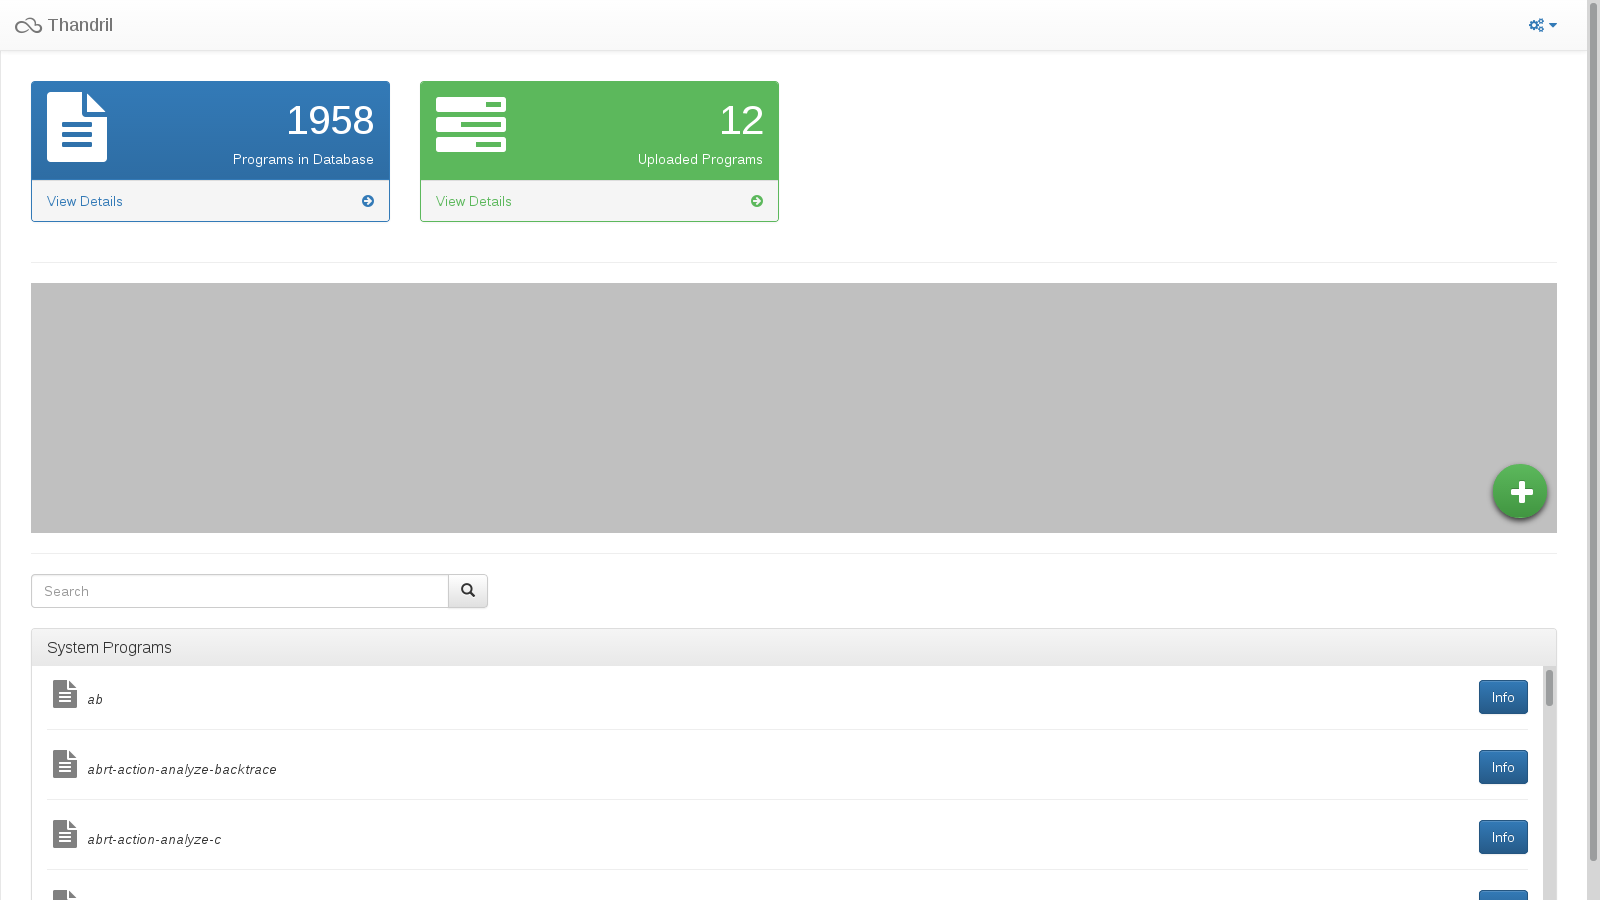
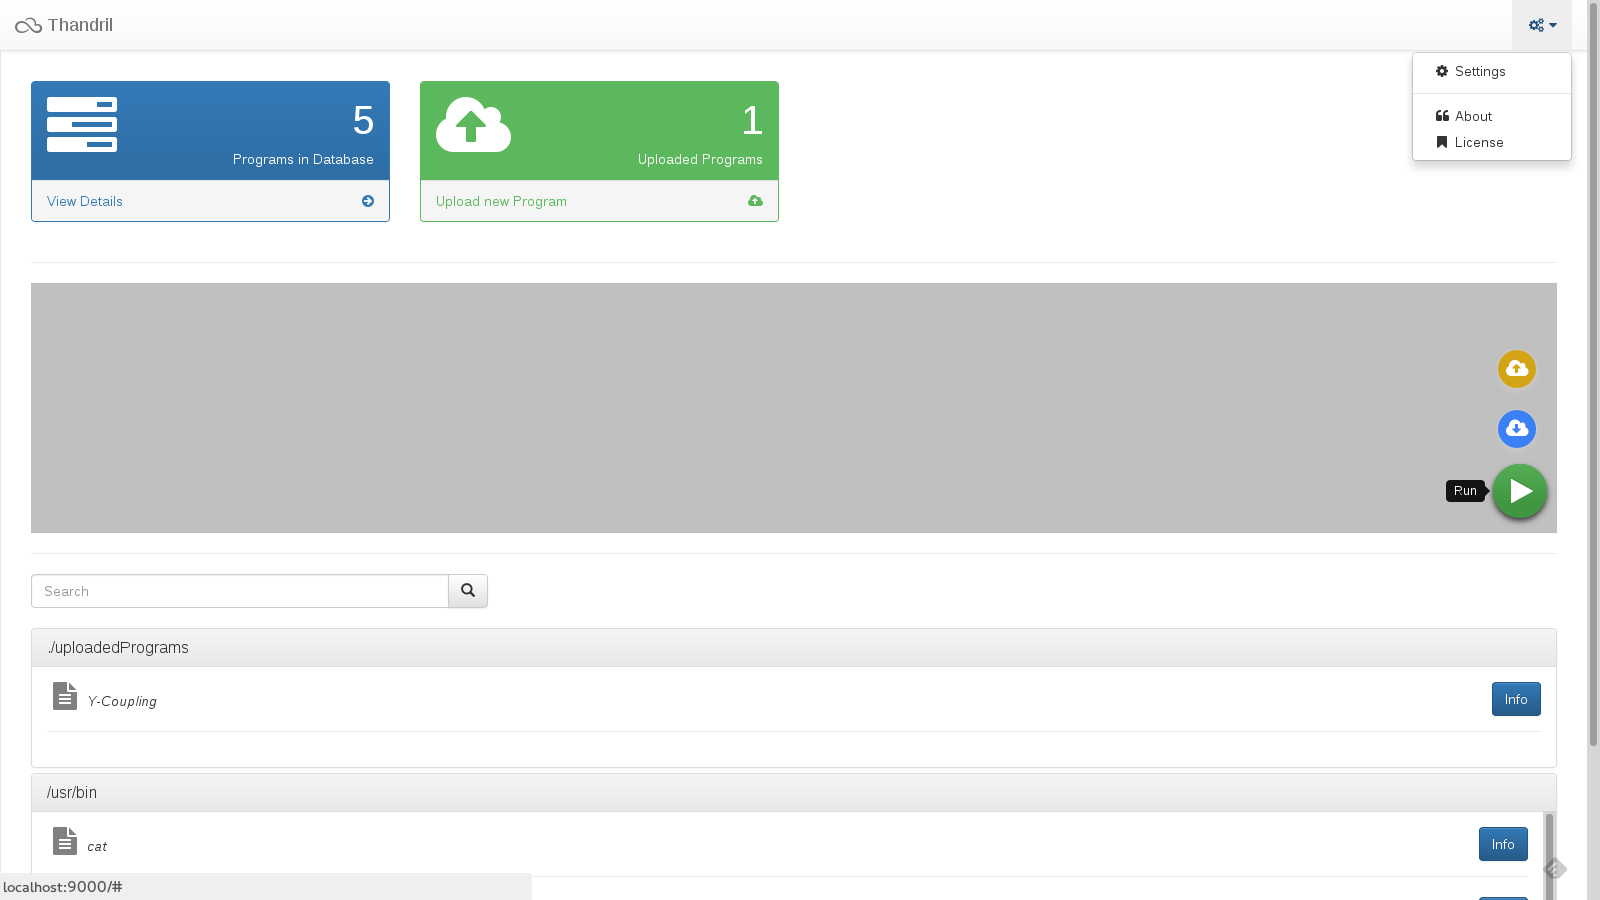
Updated Readme, uploaded Y-Coupling as a program

diff --git a/README.md b/README.md
@@ -21,3 +21,7 @@ All you have to do is to install the [Typesafe Acticator](//www.playframework.co
 - activator run
 
 If you wanna package the Application and deploy it to some kind of Server-System, please have a look at the [Activator documentation](//typesafe.com/activator/docs).
+
+### Tested Platforms ###
+
+Thandril is developed under Fedora 21 and thereby well tested on this platform. It should also run on all other Linux based distributions, in which installed programs are located at /usr/bin.
